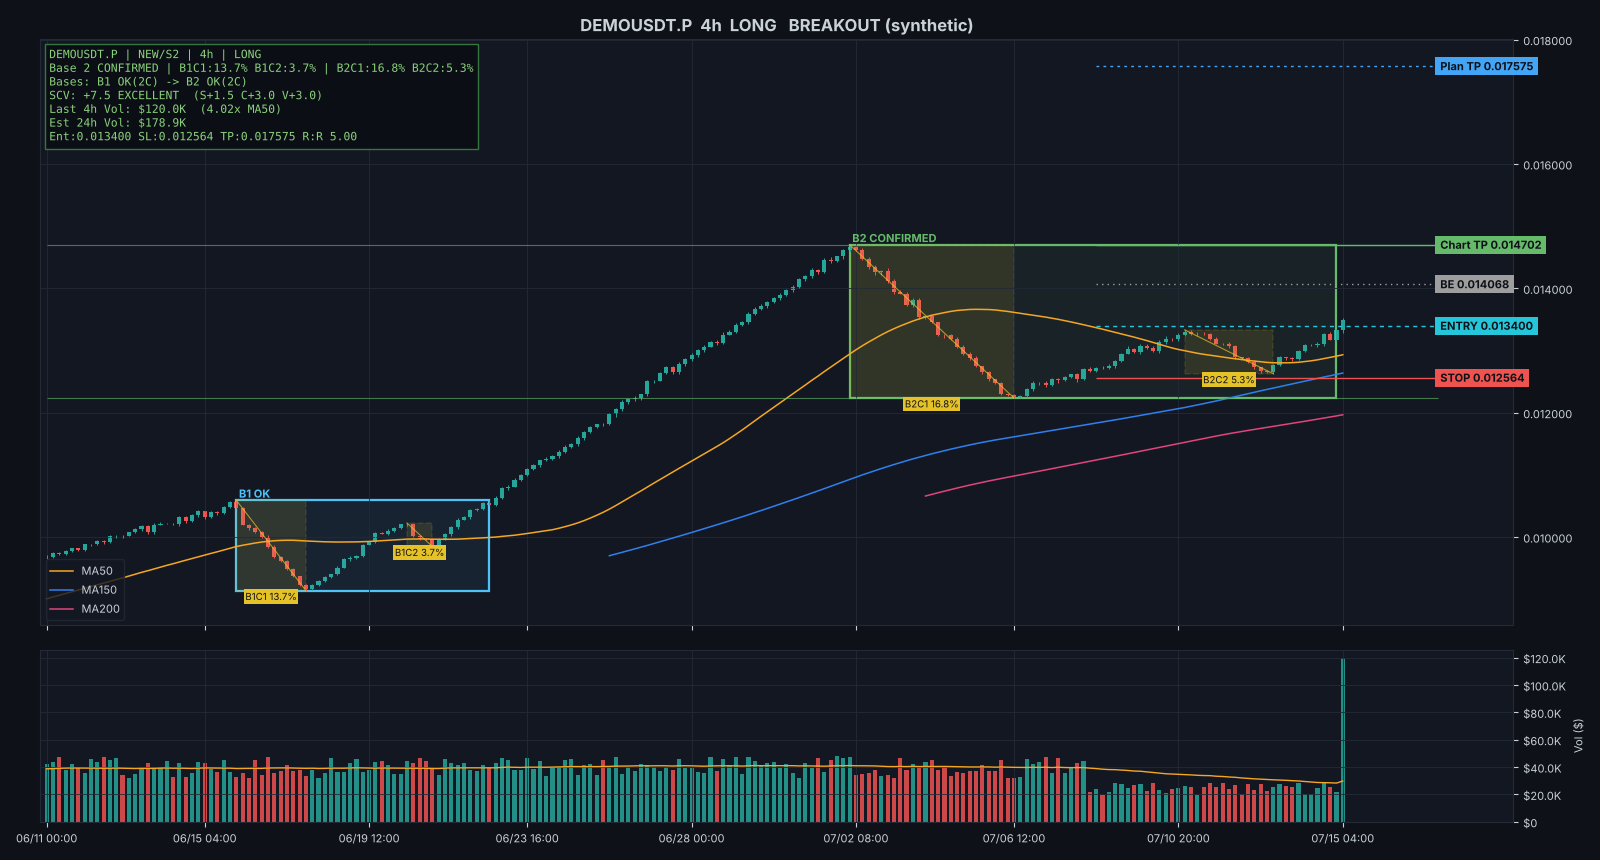
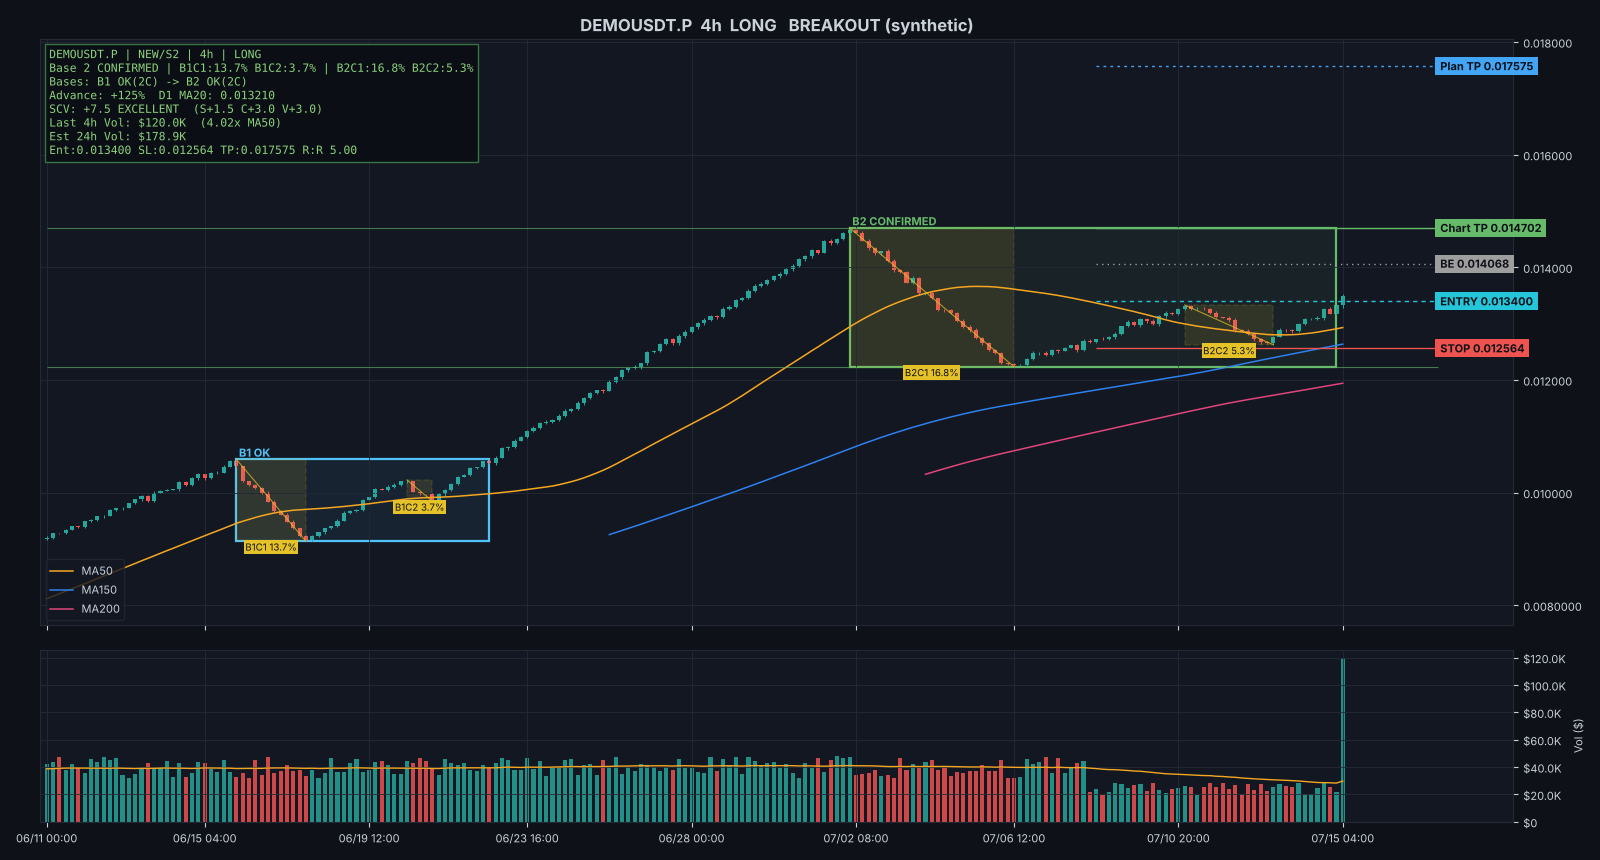
Use 100% advance + daily MA150 for Stage 2, require higher lows, cap at 2 bases
- Stage 2 now means a >=100% advance (low before high) within the last
  365 daily bars and a daily close above MA150 (MA50/MA20 for young
  listings), replacing the full trend template
- Bases are counted from the low of that advance; a third or later
  base is marked LATE and never alerts
- Each contraction's low must be higher than the previous one; a lower
  low is merged into the earlier contraction, so C1 runs from the base
  high to the pullback low
- Fetch 900 4h bars so base counting covers the whole advance
- Reports and charts show the advance size and the MA check

Claude-Session: https://claude.ai/code/session_011eBoJbhp2HEFcFaJLDPHJM

diff --git a/vcp/engine.py b/vcp/engine.py
@@ -2,10 +2,12 @@
 多周期 VCP 引擎（日线判断阶段 + 4 小时找收缩和进场），输出格式参照“师父”的信号报告。
 
 流程：
-  1. Stage（日线）：Minervini 趋势模板 → S1/S2/S3/S4；上市不足 200 根日线标记为 NEW
-  2. Base（4h）：从最近的大低点开始，按“回撤 ≥ base_min_depth 开始一个 Base，收盘创新高结束”
-     把上涨过程切成 B1、B2、B3…，每个 Base 内再用 ZigZag 拆成 C1、C2…（收缩）
-  3. 当前 Base 合格（2~6 次收缩、逐次变小、C1 ≤ 35%、末段 ≤ 15%）→ CONFIRMED
+  1. Stage（日线）：先有一段 ≥100% 的大涨（对数K线上翻倍），且收盘在日线 MA150 上方 → Stage 2；
+     上市不足 200 根日线标记为 NEW
+  2. Base（4h）：从那段大涨的起涨低点开始，按“回撤 ≥ base_min_depth 开始一个 Base，收盘创新高结束”
+     切成 B1、B2…；超过 2 个 Base 判定失效（LATE）
+  3. 每个 Base：C1 = 最高点 → 回调最低点；之后每段收缩的低点必须更高（没抬高就并入前一段）；
+     合格（2~6 次收缩、逐次变小、C1 ≤ 35%、末段 ≤ 15%）→ CONFIRMED
   4. Pivot = 最后一次收缩的高点；Entry = Pivot × (1 + 挂单缓冲)；Stop = 末段低点 × (1 - 缓冲)
   5. SCV 打分：S 结构 / C 收缩 / V 成交量，合计 → 评级
   6. 价格接近 Entry → SETUP；4h 收盘站上 Entry → BREAKOUT
@@ -26,13 +28,13 @@ DEFAULTS = {
     # 周期
     "exec_tf": "4h",
     "stage_tf": "1d",
-    "exec_bars": 600,               # 4h 拉 600 根 ≈ 100 天
+    "exec_bars": 900,               # 4h 拉 900 根 ≈ 150 天（要覆盖整段大涨才能正确数 Base）
     "stage_bars": 400,              # 日线拉 400 根
-    # 阶段（日线）
-    "new_listing_bars": 200,        # 日线不足 200 根（算不出 MA200）= 新币 NEW
-    "ma_slow_rising_bars": 20,
-    "min_above_low_pct": 0.30,
-    "max_below_high_pct": 0.25,
+    # 阶段（日线）：先有 ≥100% 的大涨，且收盘在 MA150 上方 = Stage 2
+    "new_listing_bars": 200,        # 日线不足 200 根 = 新币 NEW
+    "min_advance_pct": 1.00,        # 起涨低点 → 之后最高点 涨幅 ≥ 100%（对数K线上即翻倍）
+    "advance_lookback": 365,        # 在最近 365 根日线里找这段大涨
+    "stage_ma": 150,                # 收盘必须在日线 MA150 上方（不足 150 根用 MA50，再不足用 MA20）
     # Base / 收缩（4h）
     "base_min_depth": 0.08,         # 从高点回撤 ≥ 8% 才算开始一个 Base
     "base_min_bars": 10,            # Base 至少 10 根 4h K线
@@ -40,6 +42,7 @@ DEFAULTS = {
     "recovery_ratio": 0.35,         # 反弹收回上段跌幅 ≥ 35% 才算新的一段收缩
     "min_contractions": 2,
     "max_contractions": 6,
+    "max_bases": 2,                 # 超过 2 个 Base 判定失效（后期形态）
     "max_first_depth": 0.35,        # C1 ≤ 35%（Minervini 原版）
     "max_last_depth": 0.15,
     "contraction_tolerance": 0.10,
@@ -148,42 +151,56 @@ def pattern_text(b: Optional[Base]) -> str:
 # 1. 阶段（日线）
 # ----------------------------------------------------------------------------
 def stage_info(d1: pd.DataFrame, cfg: dict) -> dict:
+    """Stage 2 = 最近一段 ≥100% 的大涨（低点在前、高点在后）+ 日线收盘在 MA150 上方。"""
     n = len(d1)
-    if n < 30:
-        return {"label": "NEW/S?", "s2": False, "new": True, "bars": n, "why": "日线不足 30 根"}
+    if n < 20:
+        return {"label": "NEW/S?", "s2": False, "new": True, "bars": n, "why": "日线不足 20 根"}
     c = d1["close"]
     last = float(c.iloc[-1])
     new = n < cfg["new_listing_bars"]
-    yr = d1.iloc[-365:]
-    hi, lo = float(yr["high"].max()), float(yr["low"].min())
-    near_hi = last >= hi * (1 - cfg["max_below_high_pct"])
-    above_lo = last >= lo * (1 + cfg["min_above_low_pct"])
-    if new:
-        k = 50 if n >= 60 else 20
-        m = c.rolling(k).mean()
-        rising = m.iloc[-1] > m.iloc[-6]
-        s2 = bool(last > m.iloc[-1] and rising and near_hi and above_lo)
-        st = "S2" if s2 else ("S4" if last < m.iloc[-1] and not rising else "S1")
-        return {"label": f"NEW/{st}", "s2": s2, "new": True, "bars": n}
-    m50, m150, m200 = (c.rolling(k).mean() for k in (50, 150, 200))
-    rb = cfg["ma_slow_rising_bars"]
-    m200_up = m200.iloc[-1] > m200.iloc[-1 - rb]
-    m150_up = m150.iloc[-1] > m150.iloc[-1 - rb]
-    s2 = bool(last > m50.iloc[-1] > m150.iloc[-1] > m200.iloc[-1] and m200_up and near_hi and above_lo)
+    k = cfg["stage_ma"] if n >= cfg["stage_ma"] else (50 if n >= 50 else 20)
+    ma = float(c.rolling(k).mean().iloc[-1])
+    w = d1.iloc[-cfg["advance_lookback"]:].reset_index(drop=True)
+    hi_i = int(w["high"].to_numpy().argmax())
+    lo_i = int(w["low"].to_numpy()[: hi_i + 1].argmin())
+    lo, hi = float(w["low"].iloc[lo_i]), float(w["high"].iloc[hi_i])
+    adv = hi / lo - 1 if lo > 0 else 0.0
+    above = last > ma
+    big = adv >= cfg["min_advance_pct"]
+    s2 = bool(above and big)
     if s2:
         st = "S2"
-    elif last < m150.iloc[-1] and not m150_up:
-        st = "S4"
-    elif last > m200.iloc[-1] and not m150_up:
-        st = "S3"
+    elif not above:
+        st = "S4" if last < lo + (hi - lo) * 0.5 else "S3"
     else:
         st = "S1"
-    return {"label": st, "s2": s2, "new": False, "bars": n}
+    why = []
+    if not big:
+        why.append(f"涨幅 {adv * 100:.0f}% < {cfg['min_advance_pct'] * 100:.0f}%")
+    if not above:
+        why.append(f"收盘在日线 MA{k} 下方")
+    return {"label": f"NEW/{st}" if new else st, "s2": s2, "new": new, "bars": n, "ma": k, "ma_val": ma,
+            "adv": adv, "adv_low": lo, "adv_high": hi, "above_ma": above, "adv_low_time": w["time"].iloc[lo_i],
+            "why": "，".join(why)}
 
 
 # ----------------------------------------------------------------------------
 # 2. Base 切分（4h）
 # ----------------------------------------------------------------------------
+def merge_higher_lows(cons: list, vol: np.ndarray) -> list:
+    """VCP 要求每段收缩的低点比上一段高。某段低点没抬高 → 说明还是同一次回调，并入前一段。
+    这样 C1 永远是“从最高点到回调最低点”，之后的每个 C 都是更高的低点。"""
+    out = []
+    for c in cons:
+        while out and c.trough <= out[-1].trough:
+            p = out.pop()
+            peak_idx, peak = (p.peak_idx, p.peak) if p.peak >= c.peak else (c.peak_idx, c.peak)
+            v = float(vol[peak_idx:c.trough_idx + 1].mean())
+            c = type(c)(peak_idx, peak, c.trough_idx, c.trough, (peak - c.trough) / peak, v)
+        out.append(c)
+    return out
+
+
 def _eval_cons(cons: list, cfg: dict) -> tuple[bool, str]:
     k = len(cons)
     if k == 0:
@@ -201,12 +218,16 @@ def _eval_cons(cons: list, cfg: dict) -> tuple[bool, str]:
     return True, "OK"
 
 
-def segment_bases(df: pd.DataFrame, cfg: dict) -> list[Base]:
+def segment_bases(df: pd.DataFrame, cfg: dict, stage: dict | None = None) -> list[Base]:
     h, l, c = df["high"].to_numpy(), df["low"].to_numpy(), df["close"].to_numpy()
     n = len(df)
     if n < 20:
         return []
-    start = int(np.argmin(l))                 # 这段行情的起涨低点
+    # 从日线那段 ≥100% 大涨的起涨低点开始数 Base（4h 数据不够早时用 4h 窗口内的最低点）
+    first = 0
+    if stage and stage.get("adv_low_time") is not None:
+        first = min(int((df["time"] < stage["adv_low_time"]).sum()), n - 1)
+    start = first + int(np.argmin(l[first:]))
     spans, rh, i = [], start, start
     while i < n:
         if h[i] >= h[rh]:
@@ -227,8 +248,11 @@ def segment_bases(df: pd.DataFrame, cfg: dict) -> list[Base]:
         cons = build_contractions(df.iloc[:end], b0, cfg)
         if len(cons) > 1 and cons[-1].depth < 0.005:
             cons = cons[:-1]
+        cons = merge_higher_lows(cons, df["volume"].to_numpy())
         ok, st = _eval_cons(cons, cfg)
         current = end >= n
+        if no > cfg["max_bases"]:
+            ok, st = False, "LATE"
         if current and ok:
             st = "CONFIRMED"
         bases.append(Base(no, b0, end, float(h[b0]), float(l[b0:end].min()), cons, ok, st, current))
@@ -265,8 +289,8 @@ def _core(symbol: str, df: pd.DataFrame, d1: pd.DataFrame, cfg: dict) -> Signal:
     sig.last_close = float(df["close"].iloc[-1])
     sig.stage = stage_info(d1, cfg)
     if not sig.stage["s2"]:
-        sig.reasons.append(f"日线阶段 {sig.stage['label']}，不是 Stage 2")
-    sig.bases = segment_bases(df, cfg)
+        sig.reasons.append(f"日线阶段 {sig.stage['label']}，不是 Stage 2（{sig.stage.get('why', '')}）")
+    sig.bases = segment_bases(df, cfg, sig.stage)
     cur = sig.bases[-1] if sig.bases and sig.bases[-1].current else None
     sig.base = cur
     if cur is None:
@@ -291,7 +315,9 @@ def _core(symbol: str, df: pd.DataFrame, d1: pd.DataFrame, cfg: dict) -> Signal:
     if hh > sig.entry * 1.01:
         sig.chart_tp = hh
         sig.struct_rr = (hh - sig.entry) / R
-    if not cur.ok:
+    if cur.status == "LATE":
+        sig.reasons.append(f"已是第 {cur.no} 个 Base，超过 {cfg['max_bases']} 个判定失效")
+    elif not cur.ok:
         sig.reasons.append(f"当前 Base {cur.label()}：收缩不合格 {depths(cur)}")
     if sig.last_close < last_c.trough:
         sig.reasons.append("已跌破末段收缩低点")
@@ -331,14 +357,12 @@ def _score(sig: Signal, df: pd.DataFrame, cfg: dict, breakout: bool) -> None:
         if b.ok:
             cc += 1.0
             cr.append("Base确认")
-        if b.no <= 2:
+        if b.no <= cfg["max_bases"]:
             cc += 0.5
             cr.append(f"第{b.no}Base")
-        elif b.no >= 4:
-            cc -= 1.0
-            cr.append(f"第{b.no}Base(后期)")
         else:
-            cr.append(f"第{b.no}Base")
+            cc -= 2.0
+            cr.append(f"第{b.no}Base(超过{cfg['max_bases']}个，失效)")
         if breakout:
             cc += 1.0
             cr.append("Pivot突破")
@@ -374,7 +398,7 @@ def _size(sig: Signal, cfg: dict) -> None:
     factor, rule = 1.0, "NORMAL_SIZE"
     if sig.rating == "WEAK":
         factor, rule = 0.0, "SKIP"
-    elif sig.risk_pct > cfg["max_risk_pct"] or (sig.base and sig.base.no >= 4):
+    elif sig.risk_pct > cfg["max_risk_pct"]:
         factor, rule = 0.5, "HALF_SIZE"
     acct = float(cfg["account_usdt"])
     notional = acct * cfg["risk_per_trade_pct"] / sig.risk_pct * factor

diff --git a/tests/test_detector.py b/tests/test_detector.py
@@ -57,3 +57,30 @@ def test_replay_and_simulate():
     fake.loc[len(fake) - 1, "high"] = s.plan_tp * 1.01
     res = simulate(fake, len(fake) - 1, s.entry, s, DEFAULTS)
     assert res["outcome"] == "计划止盈达成" and abs(res["r"] - 5) < 1e-6
+
+
+def test_stage2_needs_100pct_advance():
+    df, d1 = make_two_base_4h()
+    s = analyze("X", df, d1)
+    assert s.stage["s2"] and s.stage["adv"] >= 1.0
+    s = analyze("X", df, d1, {"min_advance_pct": 2.0})       # 要求涨 200% → 不是 Stage 2
+    assert not s.stage["s2"] and s.status == "NONE"
+
+
+def test_lower_low_merges_into_previous_contraction():
+    from vcp.detector import Contraction
+    from vcp.engine import merge_higher_lows
+    vol = np.ones(50)
+    cons = [Contraction(0, 100, 5, 80, 0.20, 1), Contraction(10, 95, 15, 85, 0.105, 1),
+            Contraction(20, 92, 25, 78, 0.152, 1), Contraction(30, 90, 35, 86, 0.044, 1)]
+    out = merge_higher_lows(cons, vol)
+    # 第 3 段低点 78 < 80 → 前三段合并成 C1：100 → 78；第 4 段低点 86 更高 → C2
+    assert [(c.peak, c.trough) for c in out] == [(100, 78), (90, 86)]
+    assert abs(out[0].depth - 0.22) < 1e-9
+
+
+def test_more_than_max_bases_is_invalid():
+    df, d1 = make_two_base_4h()
+    s = analyze("X", df, d1, {"max_bases": 1})
+    assert s.base.no == 2 and s.base.status == "LATE"
+    assert not s.valid and s.status == "NONE"

diff --git a/vcp/report.py b/vcp/report.py
@@ -31,6 +31,9 @@ def signal_text(sig, cfg: dict, ex_name: str, head: str | None = None) -> str:
         f"Score 分数: {sig.total:+.1f}",
         "",
         f"Stage 阶段: {st.get('label', '-')} ({st.get('bars', 0)} D1 bars)",
+        f"Advance 大涨: {st.get('adv', 0) * 100:+.0f}% (${fp(st.get('adv_low'))} → ${fp(st.get('adv_high'))})"
+        f" | 需 ≥ {cfg['min_advance_pct'] * 100:.0f}% {'✅' if st.get('adv', 0) >= cfg['min_advance_pct'] else '❌'}",
+        f"D1 MA{st.get('ma', 150)}: ${fp(st.get('ma_val'))} | 收盘{'在上方 ✅' if st.get('above_ma') else '在下方 ❌'}",
         f"Pattern 收缩: {'-'.join(f'C{i + 1}' for i in range(len(b.cons))) if b else '-'}",
         f"Base Rank 基地编号: B{b.no} ({b.status})" if b else "Base Rank 基地编号: -",
         f"Base History 基地历史: {hist}",

diff --git a/tests/synthetic.py b/tests/synthetic.py
@@ -56,7 +56,7 @@ def make_downtrend(seed=3):
 def make_two_base_4h(seed=11, breakout=False, follow=0):
     """模拟师父截图那种走势：起涨 → B1(13%,3%) → 突破上涨 → B2(16.8%,5.8%) → 接近 pivot。返回 (4h, 日线)。"""
     rng = np.random.default_rng(seed)
-    pts = [(0, 0.0080), (90, 0.0105),                       # 起涨
+    pts = [(0, 0.0065), (90, 0.0105),                       # 起涨（到 B2 高点涨幅 ≈ 126%）
            (12, 0.00915), (14, 0.0102), (6, 0.00990), (6, 0.0104),   # B1: C1≈13%  C2≈3%
            (60, 0.0147),                                    # 突破后上涨到 B2 高点
            (25, 0.01225), (30, 0.01335), (10, 0.01262), (12, 0.01330)]  # B2: C1≈16.8% C2≈5.5%

diff --git a/vcp/chart.py b/vcp/chart.py
@@ -127,6 +127,7 @@ def plot_signal(df: pd.DataFrame, sig, path: str, tf: str = "4h", title_extra: s
         f"{display_symbol(sig.symbol)} | {sig.stage.get('label', '')} | {tf} | LONG",
         f"Base {b.no if b else '-'} {b.status if b else ''} | {cdet}",
         f"Bases: {hist}",
+        f"Advance: {sig.stage.get('adv', 0) * 100:+.0f}%  D1 MA{sig.stage.get('ma', 150)}: {fp(sig.stage.get('ma_val'))}",
         f"SCV: {sig.total:+.1f} {sig.rating}  (S{sig.s[0]:+.1f} C{sig.c[0]:+.1f} V{sig.v[0]:+.1f})",
         f"Last {tf} Vol: {fmoney(sig.vol.get('last'))}  ({sig.vol.get('ratio', 0):.2f}x MA50)",
         f"Est 24h Vol: {fmoney(sig.vol.get('est24h'))}",

diff --git a/README.md b/README.md
@@ -1,7 +1,7 @@
 # VCP 自动扫描机器人（USDT 永续合约）
 
 根据 **马克·米纳维尼（Mark Minervini）的波动收缩形态（VCP）**，自动扫描所有 USDT 本位永续合约：
-**日线判断阶段（Stage 2）+ 4 小时图找 Base / 收缩 / 进场**，把符合的币画成图，并通过 **Telegram** 推送和
+**日线判断阶段（先翻倍 + 站上 MA150 = Stage 2）+ 4 小时图找 Base / 收缩 / 进场**，把符合的币画成图，并通过 **Telegram** 推送和
 “师父格式”一样的完整信号报告（Stage、Base 编号与历史、C 明细、SCV 打分、Entry/Stop/BE/TP、R:R、仓位、成交量、流动性）。
 
 - 数据免费：Binance / Bybit / OKX / Gate 公开行情接口，**不需要注册、不需要 API Key**，连不上会自动换下一家
@@ -73,19 +73,20 @@ Mac / Linux：在终端运行 `./run_mac_linux.sh`
 
 ## 判定规则（全部可在 `config.yaml` 的 `strategy:` 段调整）
 
-### 1. Stage 阶段（日线）
+### 1. Stage 2（日线）
 | 条件 | 默认 |
 |---|---|
-| 收盘 > MA50 > MA150 > MA200，且 MA200 比 20 天前高 | Minervini 趋势模板 |
-| 现价 ≥ 52 周低点 × 1.30，且 ≥ 52 周高点 × 0.75 | |
-| 上市不足 200 根日线 → **NEW**（用 MA50，不足 60 天用 MA20，要求均线向上） | 例：`NEW/S2` |
-| 不满足时标记 S1 / S3 / S4，不提醒 | |
+| 最近 365 天内，起涨低点 → 之后的最高点 **涨幅 ≥ 100%**（对数K线上即翻倍） | `min_advance_pct: 1.0` |
+| 日线收盘在 **MA150 上方**（上市不足 150 天用 MA50，不足 50 天用 MA20） | `stage_ma: 150` |
+| 两条都满足 = **S2**；上市不足 200 天的币标记 **NEW**（例：`NEW/S2`） | |
 
 ### 2. Base 与收缩（4h）
-- 从最近的大低点（起涨点）开始，价格从高点回撤 **≥ 8%** 就开始一个 Base；**收盘重新突破 Base 高点** 时这个 Base 结束，下一个回撤 ≥ 8% 开始 B2、B3…
-- 每个 Base 内用 ZigZag（3%）找摆动点；反弹收回上段跌幅 ≥ 35% 才算新的一段收缩 → C1、C2…
+- 从那段大涨的 **起涨低点** 开始数 Base：价格从高点回撤 ≥ 8% 开始一个 Base，**收盘重新突破 Base 高点** 时结束
+- **超过 2 个 Base 判定失效**（标记 LATE，不提醒）
+- 每个 Base 内：**C1 = Base 最高点 → 回调最低点**；之后每段收缩的 **低点必须比上一段高**，
+  没抬高的（跌破了前面的低点）说明还是同一次回调，自动并入前一段，所以不会出现一堆 C
 - Base 合格（OK / CONFIRMED）：2~6 段收缩、逐段变小（容忍 10%）、**C1 ≤ 35%**、最后一段 ≤ 15%
-- 不合格标记：WIDE（C1 太深）、FAIL（没有逐段变小）、FORMING（收缩还不够 2 段）
+- 不合格标记：WIDE（C1 太深）、FAIL（没有逐段变小）、FORMING（收缩还不够 2 段）、LATE（第 3 个及以后的 Base）
 
 ### 3. 进场 / 止损 / 止盈
 | 项目 | 规则 |
@@ -102,13 +103,13 @@ Mac / Linux：在终端运行 `./run_mac_linux.sh`
 | 项 | 加减分 |
 |---|---|
 | **S 结构** | Stage2 +1.0（非 Stage2 −2.0）；4h 收盘 > MA50 > MA150 > MA200（Close确认排列）+0.5；收盘在 MA50 下 −0.5 |
-| **C 收缩** | C1偏小（≤ 20%）+0.5；Base确认 +1.0；第 1/2 个 Base +0.5；第 4 个及以后 −1.0；Pivot突破 +1.0 |
+| **C 收缩** | C1偏小（≤ 20%）+0.5；Base确认 +1.0；第 1/2 个 Base +0.5（第 3 个以后失效）；Pivot突破 +1.0 |
 | **V 成交量** | 阴足放量（阴线且 ≥ 1.2 倍均量）−2.0；突破放量（≥ 1.5 倍）+2.0；阳足放量 +1.0；阴足缩量 +0.5；末段量缩 +1.0 |
 | **评级** | 总分 ≥ 4 EXCELLENT；≥ 2 GOOD；≥ 0.5 FAIR；其余 WEAK（低于 `min_rating` 不提醒） |
 
 ### 5. 仓位与流动性
 - 名义仓位 = 账户 × 每笔风险% ÷ Risk%（打到止损只亏 1%）；最多 5 倍杠杆
-- 入场风险 > 10% 或第 4 个及以后的 Base → 半仓（HALF_SIZE）；评级 WEAK → SKIP
+- 入场风险 > 10% → 半仓（HALF_SIZE）；评级 WEAK → SKIP
 - 单笔上限 Liquidity Cap = 最新 4h 成交额 × 10%；估算 24h 成交额 = 成交额 50 均线 × 6
 - 仓位规则名称：`NEW_LISTING_` / `MATURE_` + `NORMAL_SIZE` / `HALF_SIZE` / `SKIP`
 
